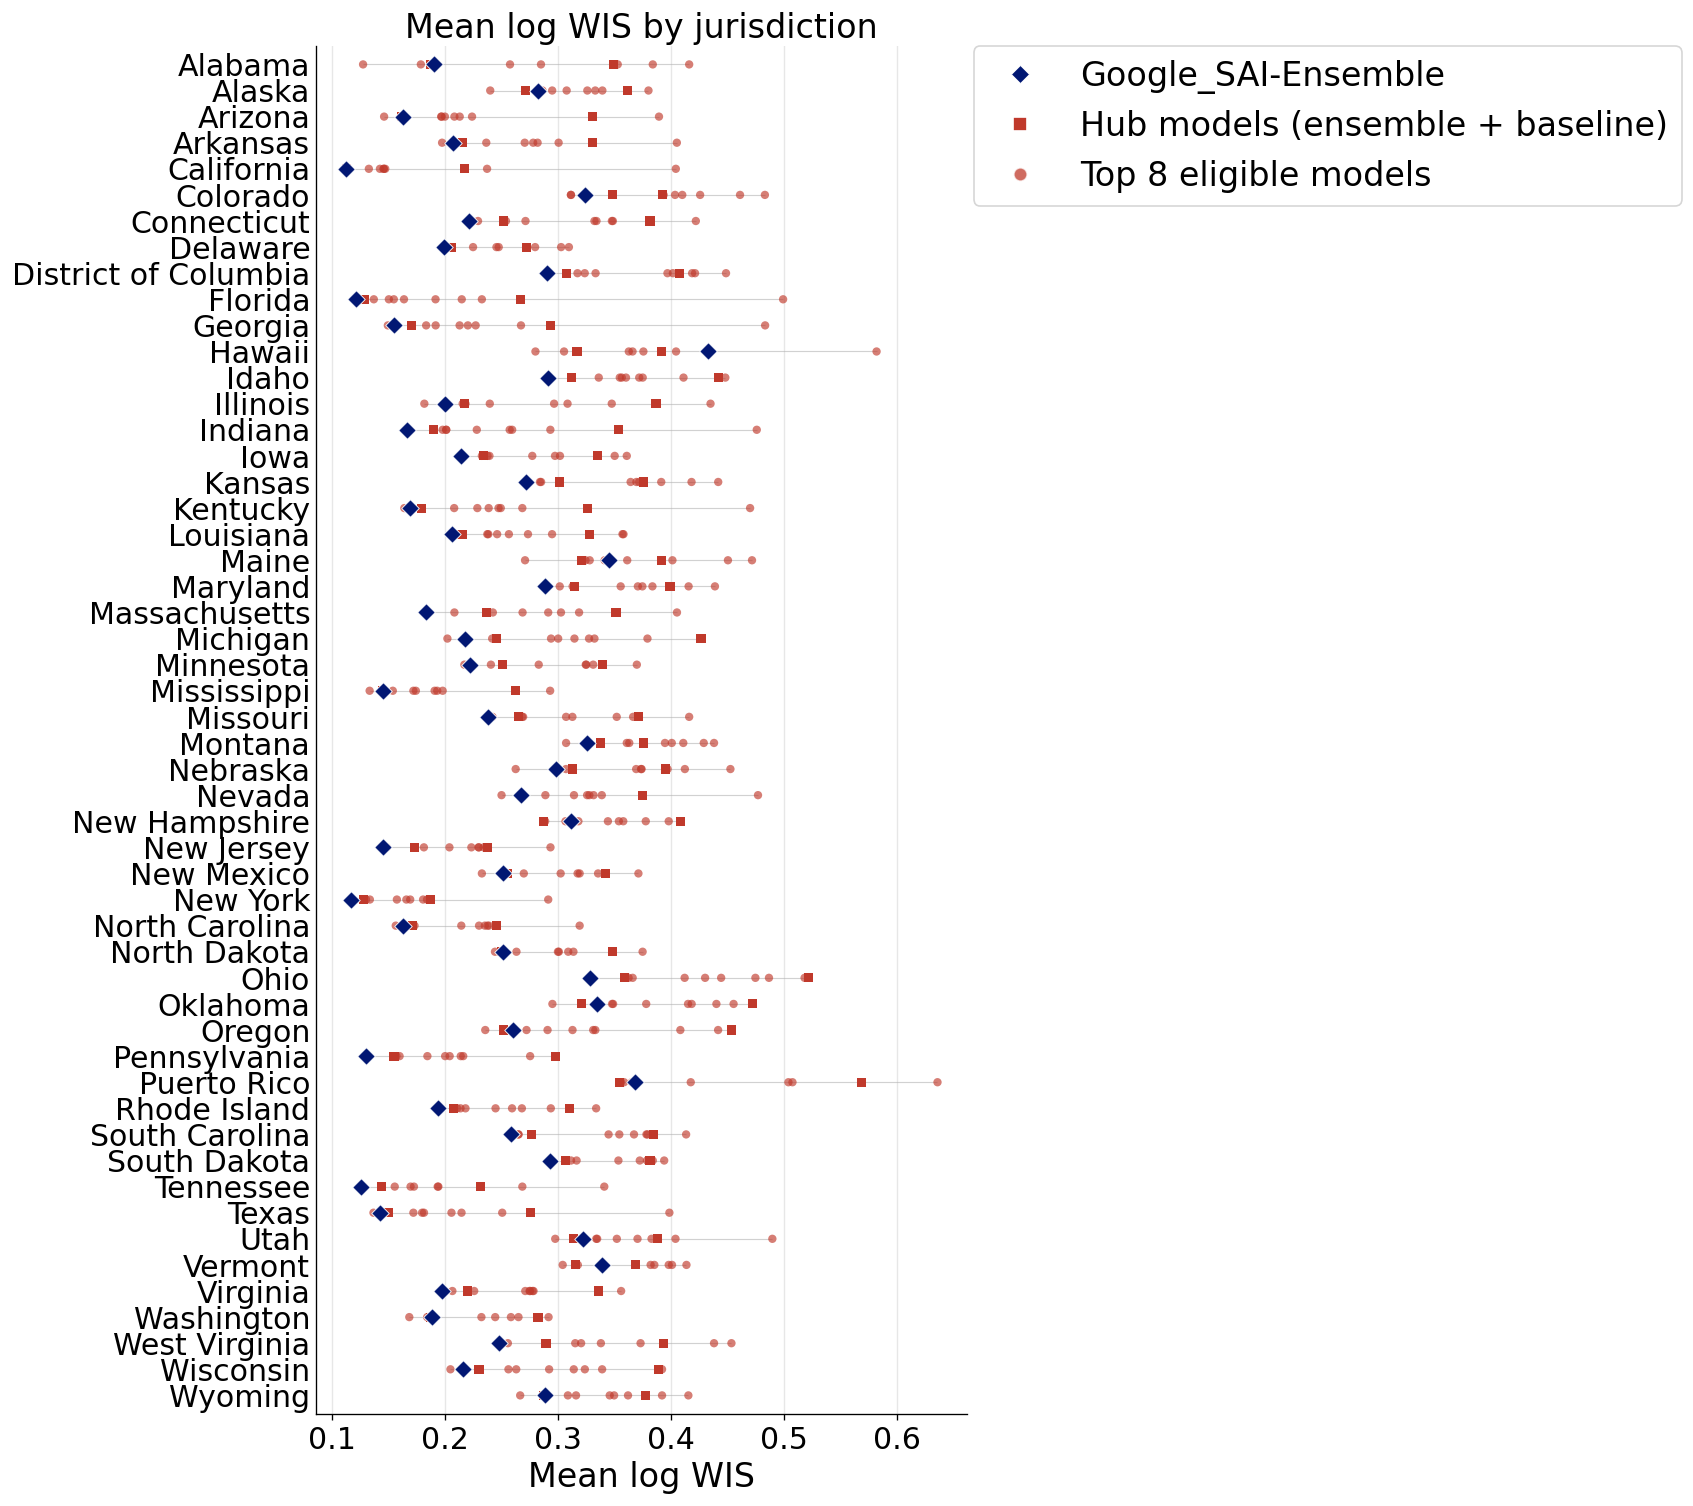
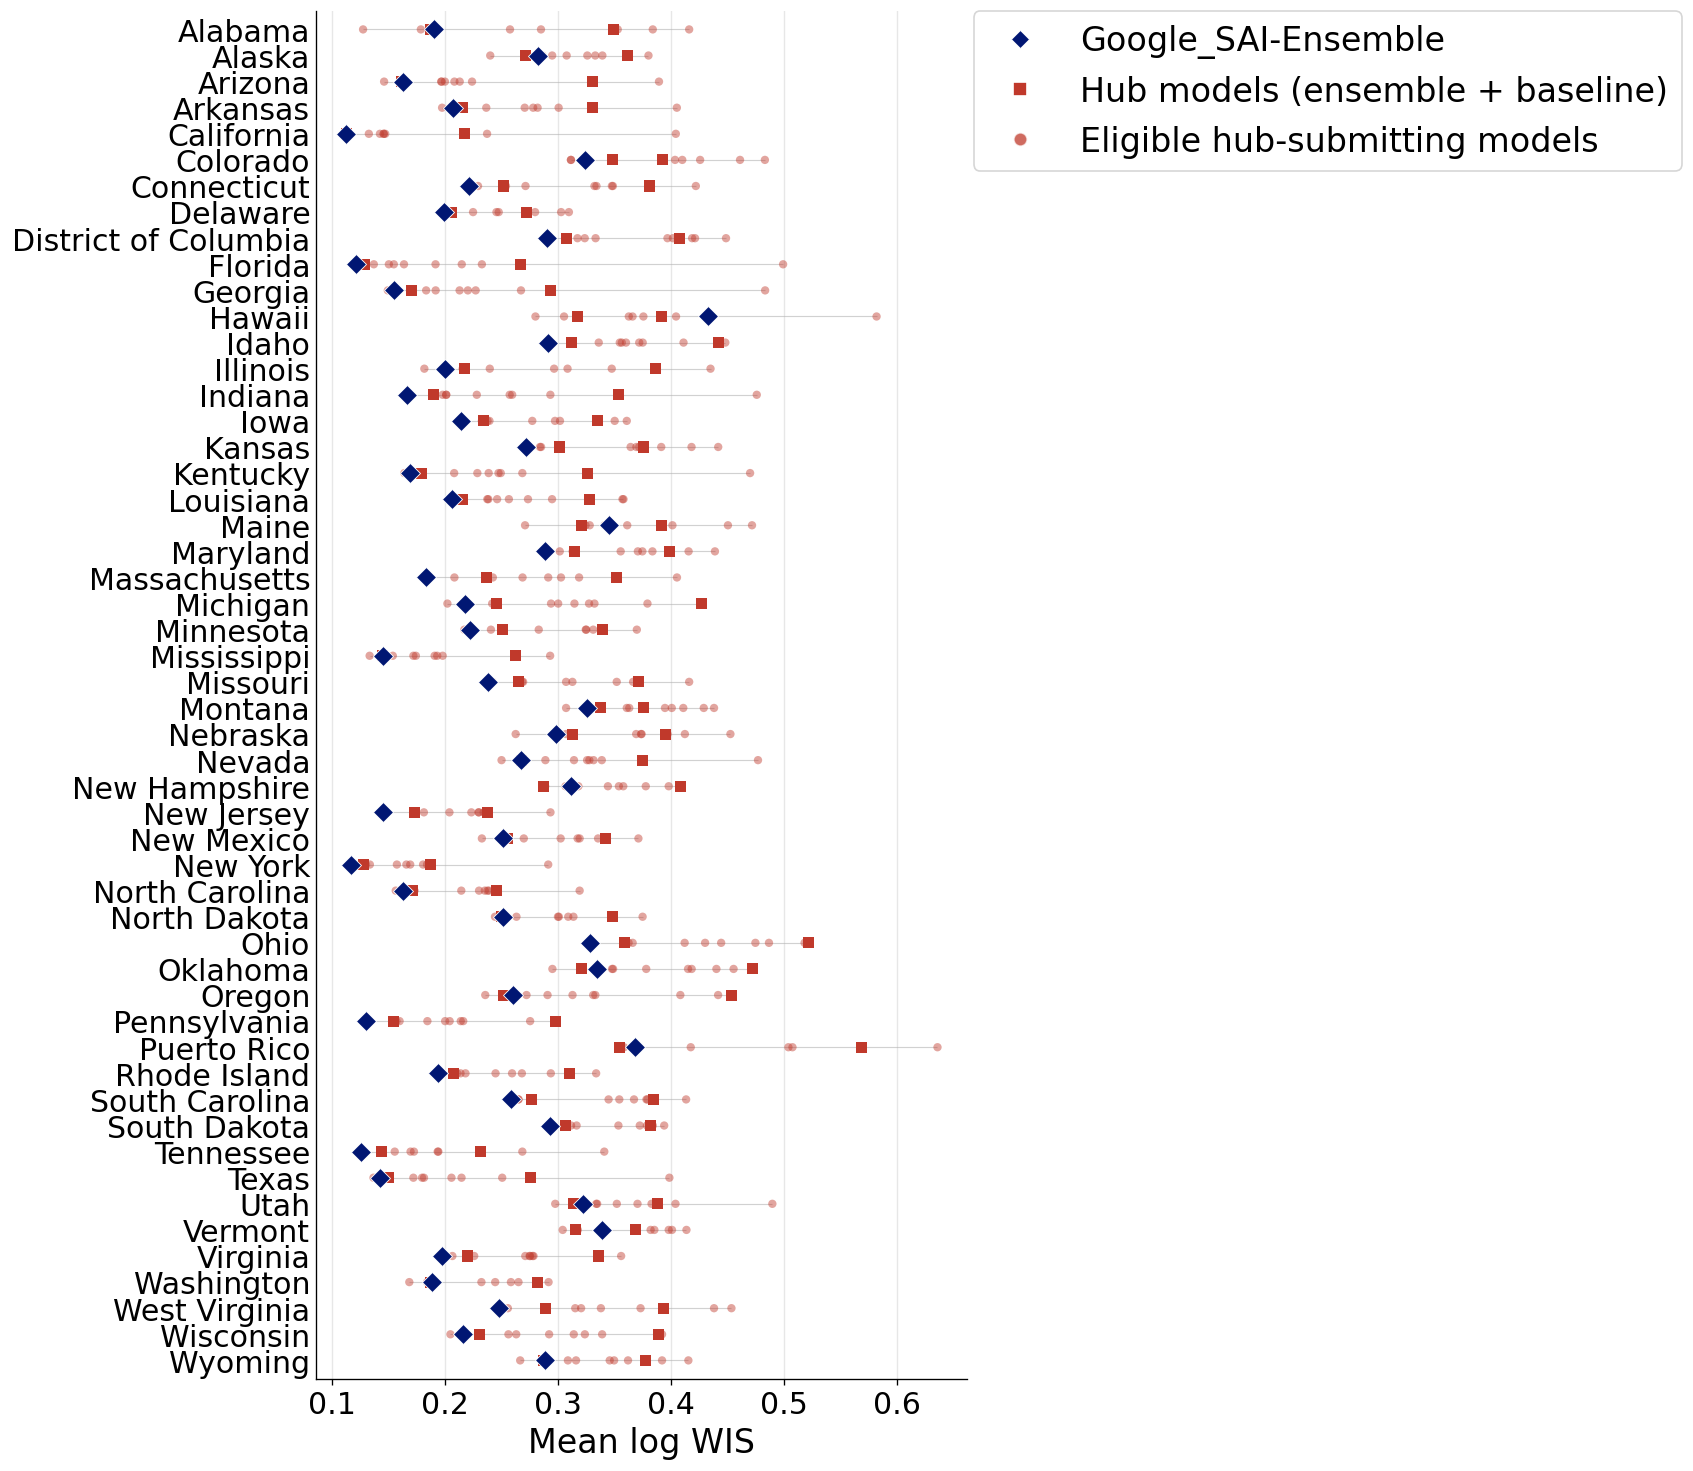
Update WIS by jurisdiction plots

diff --git a/src/plotting.py b/src/plotting.py
@@ -1326,9 +1326,9 @@ def plot_by_location(
         is_hub  = (m in hub_set)
         color   = _main_colour if is_main else model_colours.get(m, "0.5")
         marker  = "D" if is_main else ("s" if is_hub else "o")
-        size    = 55  if is_main else (30  if is_hub else 25)
+        size    = 72  if is_main else (44  if is_hub else 25)
         zorder  = 5   if is_main else (4   if is_hub else 2)
-        alpha   = 1.0 if (is_main or is_hub) else 0.65
+        alpha   = 1.0 if (is_main or is_hub) else 0.45
 
         valid = [
             (y_map[loc], sub.loc[m, loc])
@@ -1346,7 +1346,6 @@ def plot_by_location(
         )
 
     ax.set_xlabel("Mean log WIS")
-    ax.set_title("Mean log WIS by jurisdiction", pad=5)
     ax.grid(True, axis="x", alpha=0.3)
     ax.grid(False, axis="y")
     ax.tick_params(axis="y", length=0)
@@ -1376,10 +1375,15 @@ def plot_by_location(
     others = [m for m in top_eligible if m != main_model]
     if others:
         _oc = next((model_colours[m] for m in others if m in model_colours), "0.5")
+        _n_shown = min(top_n, len(others))
+        _others_label = (
+            "Eligible hub-submitting models" if _n_shown >= len(others)
+            else f"Top {_n_shown} eligible hub-submitting models"
+        )
         legend_handles.append(Line2D(
             [0], [0], marker="o", color="w", markerfacecolor=_oc,
             markersize=8, alpha=0.75,
-            label=f"Top {min(top_n, len(others))} eligible models",
+            label=_others_label,
         ))
 
     if legend_handles:
